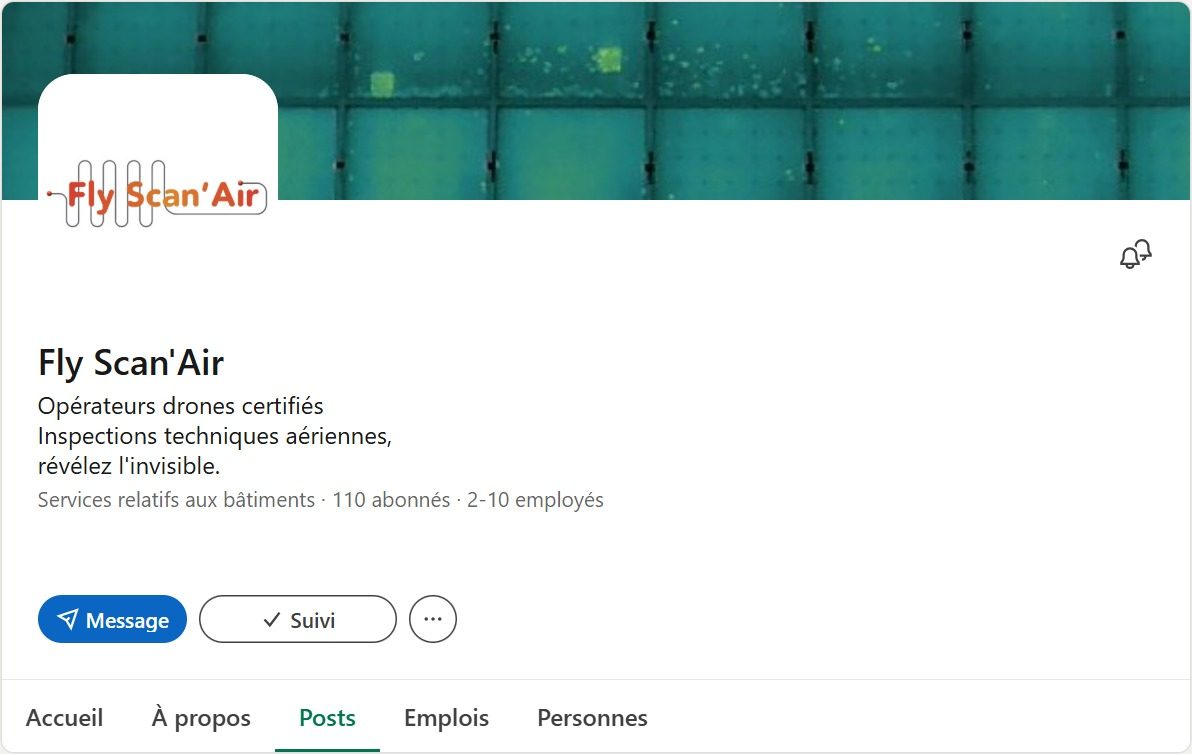
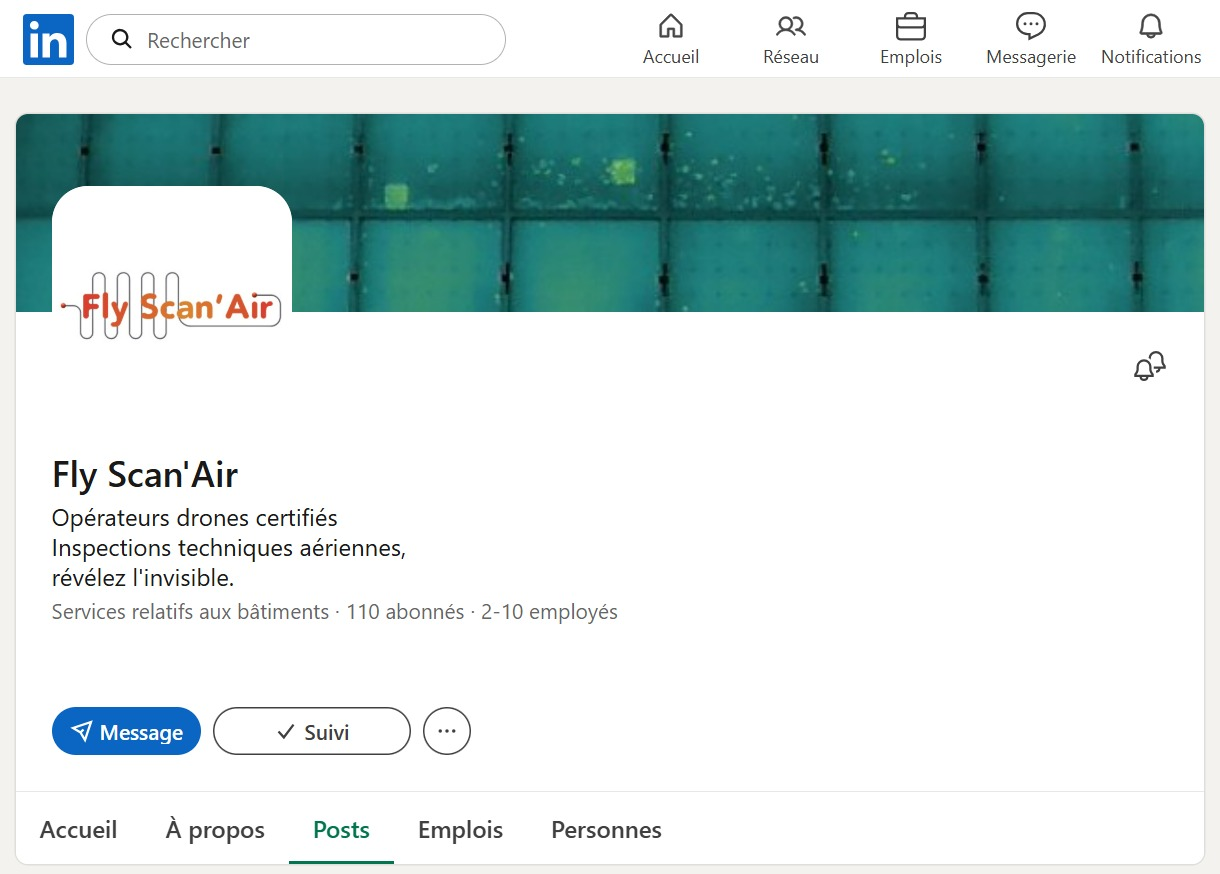
v16 : musique en fond (voix plus claire), site sans zoom, page LinkedIn avec la barre LinkedIn
- Musique : 0,5 (-6 dB) au lieu de 0,85, et 0,15 (-16,5 dB) sous la voix au lieu de 0,28 ; 0,3 pendant la frappe
- S7 : plus de zoom lent sur les captures ; page LinkedIn reprise de la capture complète (barre LinkedIn : logo,
  recherche, menus), pastilles de notification retirées (icônes redessinées), relation personnelle masquée
  (tools/linkedin_image.cjs, la capture d'origine n'est pas versionnée)

Claude-Session: https://claude.ai/code/session_01B7WVztPWfYD6WDTm2LLFp3

diff --git a/video-thermographie/compositions/s7.html b/video-thermographie/compositions/s7.html
@@ -37,7 +37,7 @@
       <svg id="s7-mag" viewBox="0 0 256 256" width="38.64" height="38.64" style="margin: 0 25.76px 0 36.8px"><path d="M232.49,215.51,185,168a92.12,92.12,0,1,0-17,17l47.53,47.54a12,12,0,0,0,17-17ZM44,112a68,68,0,1,1,68,68A68.07,68.07,0,0,1,44,112Z" fill="#111111"/></svg>
       <div id="s7-text" class="stext" style="font-size: 38px"><span id="s7-q0" class="q"><span class="k">w</span><span class="k">w</span><span class="k">w</span><span class="k">.</span><span class="k">f</span><span class="k">l</span><span class="k">y</span><span class="k">s</span><span class="k">c</span><span class="k">a</span><span class="k">n</span><span class="k">a</span><span class="k">i</span><span class="k">r</span><span class="k">.</span><span class="k">c</span><span class="k">o</span><span class="k">m</span></span><span id="s7-q1" class="q"><span class="k">F</span><span class="k">l</span><span class="k">y</span><span class="k">&nbsp;</span><span class="k">S</span><span class="k">c</span><span class="k">a</span><span class="k">n</span><span class="k">&#x27;</span><span class="k">A</span><span class="k">i</span><span class="k">r</span></span><span id="s7-caret" class="caret" style="height: 43.7px"></span></div>
     </div>
-    <div id="s7-r0" class="res" style="left: 247.52px; top: 248px; width: 1424.96px; height: 724px"><div class="chrome" style="height: 44px"><i style="left: 18px; top: 16px"></i><i style="left: 40px; top: 16px"></i><i style="left: 62px; top: 16px"></i><div class="addr" data-layout-ignore style="height: 30px; font-size: 18.48px">flyscanair.com</div></div><div class="shot" style="top: 44px; width: 1424.96px; height: 680px"><img id="s7-img0" src="assets/images/site-flyscanair.jpg" width="1424.96" height="680" alt="" /></div><div id="s7-scan0" class="scan7" style="top: 44px; height: 680px"></div></div><div id="s7-r1" class="res" style="left: 422.49px; top: 248px; width: 1075.01px; height: 724px"><div class="chrome" style="height: 44px"><i style="left: 18px; top: 16px"></i><i style="left: 40px; top: 16px"></i><i style="left: 62px; top: 16px"></i><div class="addr" data-layout-ignore style="height: 30px; font-size: 18.48px">linkedin.com/company/fly-scan-air</div></div><div class="shot" style="top: 44px; width: 1075.01px; height: 680px"><img id="s7-img1" src="assets/images/linkedin-flyscanair.jpg" width="1075.01" height="680" alt="" /></div><div id="s7-scan1" class="scan7" style="top: 44px; height: 680px"></div></div>
+    <div id="s7-r0" class="res" style="left: 247.52px; top: 248px; width: 1424.96px; height: 724px"><div class="chrome" style="height: 44px"><i style="left: 18px; top: 16px"></i><i style="left: 40px; top: 16px"></i><i style="left: 62px; top: 16px"></i><div class="addr" data-layout-ignore style="height: 30px; font-size: 18.48px">flyscanair.com</div></div><div class="shot" style="top: 44px; width: 1424.96px; height: 680px"><img id="s7-img0" src="assets/images/site-flyscanair.jpg" width="1424.96" height="680" alt="" /></div><div id="s7-scan0" class="scan7" style="top: 44px; height: 680px"></div></div><div id="s7-r1" class="res" style="left: 485.4px; top: 248px; width: 949.2px; height: 724px"><div class="chrome" style="height: 44px"><i style="left: 18px; top: 16px"></i><i style="left: 40px; top: 16px"></i><i style="left: 62px; top: 16px"></i><div class="addr" data-layout-ignore style="height: 30px; font-size: 18.48px">linkedin.com/company/fly-scan-air</div></div><div class="shot" style="top: 44px; width: 949.2px; height: 680px"><img id="s7-img1" src="assets/images/linkedin-flyscanair.jpg" width="949.2" height="680" alt="" /></div><div id="s7-scan1" class="scan7" style="top: 44px; height: 680px"></div></div>
   </div>
   <script>
     (function () {
@@ -121,7 +121,6 @@
         tl.fromTo(img, { clipPath: "inset(0 100% 0 0)" }, { clipPath: "inset(0 0% 0 0)", duration: 0.6, ease: "power1.inOut" }, t + 0.2);
         tl.fromTo(scan, { opacity: 1, x: 0 }, { x: w - 4, duration: 0.6, ease: "power1.inOut" }, t + 0.2);
         fadeOut(t + 0.8, scan, 0.12);
-        tl.fromTo(img, { scale: 1 }, { scale: 1.035, duration: 2.2, ease: "sine.inOut", immediateRender: false }, t + 0.8);
       };
       // 2. « www.flyscanair.com », Entrée : la barre monte, le site s'affiche
       type(0, 0.9);

diff --git a/video-thermographie/formats/1x1/compositions/s7.html b/video-thermographie/formats/1x1/compositions/s7.html
@@ -37,7 +37,7 @@
       <svg id="s7-mag" viewBox="0 0 256 256" width="35.28" height="35.28" style="margin: 0 23.52px 0 33.6px"><path d="M232.49,215.51,185,168a92.12,92.12,0,1,0-17,17l47.53,47.54a12,12,0,0,0,17-17ZM44,112a68,68,0,1,1,68,68A68.07,68.07,0,0,1,44,112Z" fill="#111111"/></svg>
       <div id="s7-text" class="stext" style="font-size: 34px"><span id="s7-q0" class="q"><span class="k">w</span><span class="k">w</span><span class="k">w</span><span class="k">.</span><span class="k">f</span><span class="k">l</span><span class="k">y</span><span class="k">s</span><span class="k">c</span><span class="k">a</span><span class="k">n</span><span class="k">a</span><span class="k">i</span><span class="k">r</span><span class="k">.</span><span class="k">c</span><span class="k">o</span><span class="k">m</span></span><span id="s7-q1" class="q"><span class="k">F</span><span class="k">l</span><span class="k">y</span><span class="k">&nbsp;</span><span class="k">S</span><span class="k">c</span><span class="k">a</span><span class="k">n</span><span class="k">&#x27;</span><span class="k">A</span><span class="k">i</span><span class="k">r</span></span><span id="s7-caret" class="caret" style="height: 39.1px"></span></div>
     </div>
-    <div id="s7-r0" class="res" style="left: 40px; top: 277px; width: 1000px; height: 517.21px"><div class="chrome" style="height: 40px"><i style="left: 18px; top: 14px"></i><i style="left: 40px; top: 14px"></i><i style="left: 62px; top: 14px"></i><div class="addr" data-layout-ignore style="height: 26px; font-size: 16.8px">flyscanair.com</div></div><div class="shot" style="top: 40px; width: 1000px; height: 477.21px"><img id="s7-img0" src="assets/images/site-flyscanair.jpg" width="1000" height="477.21" alt="" /></div><div id="s7-scan0" class="scan7" style="top: 40px; height: 477.21px"></div></div><div id="s7-r1" class="res" style="left: 65.73px; top: 277px; width: 948.54px; height: 640px"><div class="chrome" style="height: 40px"><i style="left: 18px; top: 14px"></i><i style="left: 40px; top: 14px"></i><i style="left: 62px; top: 14px"></i><div class="addr" data-layout-ignore style="height: 26px; font-size: 16.8px">linkedin.com/company/fly-scan-air</div></div><div class="shot" style="top: 40px; width: 948.54px; height: 600px"><img id="s7-img1" src="assets/images/linkedin-flyscanair.jpg" width="948.54" height="600" alt="" /></div><div id="s7-scan1" class="scan7" style="top: 40px; height: 600px"></div></div>
+    <div id="s7-r0" class="res" style="left: 40px; top: 277px; width: 1000px; height: 517.21px"><div class="chrome" style="height: 40px"><i style="left: 18px; top: 14px"></i><i style="left: 40px; top: 14px"></i><i style="left: 62px; top: 14px"></i><div class="addr" data-layout-ignore style="height: 26px; font-size: 16.8px">flyscanair.com</div></div><div class="shot" style="top: 40px; width: 1000px; height: 477.21px"><img id="s7-img0" src="assets/images/site-flyscanair.jpg" width="1000" height="477.21" alt="" /></div><div id="s7-scan0" class="scan7" style="top: 40px; height: 477.21px"></div></div><div id="s7-r1" class="res" style="left: 121.24px; top: 277px; width: 837.53px; height: 640px"><div class="chrome" style="height: 40px"><i style="left: 18px; top: 14px"></i><i style="left: 40px; top: 14px"></i><i style="left: 62px; top: 14px"></i><div class="addr" data-layout-ignore style="height: 26px; font-size: 16.8px">linkedin.com/company/fly-scan-air</div></div><div class="shot" style="top: 40px; width: 837.53px; height: 600px"><img id="s7-img1" src="assets/images/linkedin-flyscanair.jpg" width="837.53" height="600" alt="" /></div><div id="s7-scan1" class="scan7" style="top: 40px; height: 600px"></div></div>
   </div>
   <script>
     (function () {
@@ -121,7 +121,6 @@
         tl.fromTo(img, { clipPath: "inset(0 100% 0 0)" }, { clipPath: "inset(0 0% 0 0)", duration: 0.6, ease: "power1.inOut" }, t + 0.2);
         tl.fromTo(scan, { opacity: 1, x: 0 }, { x: w - 4, duration: 0.6, ease: "power1.inOut" }, t + 0.2);
         fadeOut(t + 0.8, scan, 0.12);
-        tl.fromTo(img, { scale: 1 }, { scale: 1.035, duration: 2.2, ease: "sine.inOut", immediateRender: false }, t + 0.8);
       };
       // 2. « www.flyscanair.com », Entrée : la barre monte, le site s'affiche
       type(0, 0.9);

diff --git a/video-thermographie/formats/9x16/compositions/s7.html b/video-thermographie/formats/9x16/compositions/s7.html
@@ -37,7 +37,7 @@
       <svg id="s7-mag" viewBox="0 0 256 256" width="46.2" height="46.2" style="margin: 0 30.8px 0 44px"><path d="M232.49,215.51,185,168a92.12,92.12,0,1,0-17,17l47.53,47.54a12,12,0,0,0,17-17ZM44,112a68,68,0,1,1,68,68A68.07,68.07,0,0,1,44,112Z" fill="#111111"/></svg>
       <div id="s7-text" class="stext" style="font-size: 42px"><span id="s7-q0" class="q"><span class="k">w</span><span class="k">w</span><span class="k">w</span><span class="k">.</span><span class="k">f</span><span class="k">l</span><span class="k">y</span><span class="k">s</span><span class="k">c</span><span class="k">a</span><span class="k">n</span><span class="k">a</span><span class="k">i</span><span class="k">r</span><span class="k">.</span><span class="k">c</span><span class="k">o</span><span class="k">m</span></span><span id="s7-q1" class="q"><span class="k">F</span><span class="k">l</span><span class="k">y</span><span class="k">&nbsp;</span><span class="k">S</span><span class="k">c</span><span class="k">a</span><span class="k">n</span><span class="k">&#x27;</span><span class="k">A</span><span class="k">i</span><span class="k">r</span></span><span id="s7-caret" class="caret" style="height: 48.3px"></span></div>
     </div>
-    <div id="s7-r0" class="res" style="left: 40px; top: 705px; width: 1000px; height: 527.21px"><div class="chrome" style="height: 50px"><i style="left: 18px; top: 19px"></i><i style="left: 40px; top: 19px"></i><i style="left: 62px; top: 19px"></i><div class="addr" data-layout-ignore style="height: 36px; font-size: 21px">flyscanair.com</div></div><div class="shot" style="top: 50px; width: 1000px; height: 477.21px"><img id="s7-img0" src="assets/images/site-flyscanair.jpg" width="1000" height="477.21" alt="" /></div><div id="s7-scan0" class="scan7" style="top: 50px; height: 477.21px"></div></div><div id="s7-r1" class="res" style="left: 40px; top: 705px; width: 1000px; height: 682.55px"><div class="chrome" style="height: 50px"><i style="left: 18px; top: 19px"></i><i style="left: 40px; top: 19px"></i><i style="left: 62px; top: 19px"></i><div class="addr" data-layout-ignore style="height: 36px; font-size: 21px">linkedin.com/company/fly-scan-air</div></div><div class="shot" style="top: 50px; width: 1000px; height: 632.55px"><img id="s7-img1" src="assets/images/linkedin-flyscanair.jpg" width="1000" height="632.55" alt="" /></div><div id="s7-scan1" class="scan7" style="top: 50px; height: 632.55px"></div></div>
+    <div id="s7-r0" class="res" style="left: 40px; top: 705px; width: 1000px; height: 527.21px"><div class="chrome" style="height: 50px"><i style="left: 18px; top: 19px"></i><i style="left: 40px; top: 19px"></i><i style="left: 62px; top: 19px"></i><div class="addr" data-layout-ignore style="height: 36px; font-size: 21px">flyscanair.com</div></div><div class="shot" style="top: 50px; width: 1000px; height: 477.21px"><img id="s7-img0" src="assets/images/site-flyscanair.jpg" width="1000" height="477.21" alt="" /></div><div id="s7-scan0" class="scan7" style="top: 50px; height: 477.21px"></div></div><div id="s7-r1" class="res" style="left: 93.32px; top: 705px; width: 893.36px; height: 690px"><div class="chrome" style="height: 50px"><i style="left: 18px; top: 19px"></i><i style="left: 40px; top: 19px"></i><i style="left: 62px; top: 19px"></i><div class="addr" data-layout-ignore style="height: 36px; font-size: 21px">linkedin.com/company/fly-scan-air</div></div><div class="shot" style="top: 50px; width: 893.36px; height: 640px"><img id="s7-img1" src="assets/images/linkedin-flyscanair.jpg" width="893.36" height="640" alt="" /></div><div id="s7-scan1" class="scan7" style="top: 50px; height: 640px"></div></div>
   </div>
   <script>
     (function () {
@@ -121,7 +121,6 @@
         tl.fromTo(img, { clipPath: "inset(0 100% 0 0)" }, { clipPath: "inset(0 0% 0 0)", duration: 0.6, ease: "power1.inOut" }, t + 0.2);
         tl.fromTo(scan, { opacity: 1, x: 0 }, { x: w - 4, duration: 0.6, ease: "power1.inOut" }, t + 0.2);
         fadeOut(t + 0.8, scan, 0.12);
-        tl.fromTo(img, { scale: 1 }, { scale: 1.035, duration: 2.2, ease: "sine.inOut", immediateRender: false }, t + 0.8);
       };
       // 2. « www.flyscanair.com », Entrée : la barre monte, le site s'affiche
       type(0, 0.9);

diff --git a/video-thermographie/formats/1x1/index.html b/video-thermographie/formats/1x1/index.html
@@ -159,7 +159,7 @@
         data-width="1080"
         data-height="1080"
       ></div>
-      <audio id="music" class="clip" src="assets/audio/music.wav" data-start="0" data-duration="74.4" data-track-index="2" data-volume="1" data-automation="{&quot;version&quot;: 1, &quot;lanes&quot;: [{&quot;target&quot;: &quot;volume&quot;, &quot;points&quot;: [{&quot;t&quot;: 0, &quot;v&quot;: 0.85}, {&quot;t&quot;: 4.2, &quot;v&quot;: 0.85}, {&quot;t&quot;: 4.5, &quot;v&quot;: 0.28}, {&quot;t&quot;: 9.21, &quot;v&quot;: 0.28}, {&quot;t&quot;: 9.66, &quot;v&quot;: 0.85}, {&quot;t&quot;: 10.2, &quot;v&quot;: 0.85}, {&quot;t&quot;: 10.5, &quot;v&quot;: 0.28}, {&quot;t&quot;: 16.16, &quot;v&quot;: 0.28}, {&quot;t&quot;: 16.61, &quot;v&quot;: 0.85}, {&quot;t&quot;: 17.5, &quot;v&quot;: 0.85}, {&quot;t&quot;: 17.8, &quot;v&quot;: 0.28}, {&quot;t&quot;: 30.725, &quot;v&quot;: 0.28}, {&quot;t&quot;: 31.175, &quot;v&quot;: 0.85}, {&quot;t&quot;: 33.3, &quot;v&quot;: 0.85}, {&quot;t&quot;: 33.6, &quot;v&quot;: 0.28}, {&quot;t&quot;: 46.228, &quot;v&quot;: 0.28}, {&quot;t&quot;: 46.678, &quot;v&quot;: 0.85}, {&quot;t&quot;: 56.5, &quot;v&quot;: 0.85}, {&quot;t&quot;: 56.8, &quot;v&quot;: 0.5}, {&quot;t&quot;: 58.4, &quot;v&quot;: 0.5}, {&quot;t&quot;: 58.85, &quot;v&quot;: 0.85}, {&quot;t&quot;: 61.3, &quot;v&quot;: 0.85}, {&quot;t&quot;: 61.6, &quot;v&quot;: 0.5}, {&quot;t&quot;: 63.0, &quot;v&quot;: 0.5}, {&quot;t&quot;: 63.45, &quot;v&quot;: 0.85}]}]}"></audio>
+      <audio id="music" class="clip" src="assets/audio/music.wav" data-start="0" data-duration="74.4" data-track-index="2" data-volume="1" data-automation="{&quot;version&quot;: 1, &quot;lanes&quot;: [{&quot;target&quot;: &quot;volume&quot;, &quot;points&quot;: [{&quot;t&quot;: 0, &quot;v&quot;: 0.5}, {&quot;t&quot;: 4.2, &quot;v&quot;: 0.5}, {&quot;t&quot;: 4.5, &quot;v&quot;: 0.15}, {&quot;t&quot;: 9.21, &quot;v&quot;: 0.15}, {&quot;t&quot;: 9.66, &quot;v&quot;: 0.5}, {&quot;t&quot;: 10.2, &quot;v&quot;: 0.5}, {&quot;t&quot;: 10.5, &quot;v&quot;: 0.15}, {&quot;t&quot;: 16.16, &quot;v&quot;: 0.15}, {&quot;t&quot;: 16.61, &quot;v&quot;: 0.5}, {&quot;t&quot;: 17.5, &quot;v&quot;: 0.5}, {&quot;t&quot;: 17.8, &quot;v&quot;: 0.15}, {&quot;t&quot;: 30.725, &quot;v&quot;: 0.15}, {&quot;t&quot;: 31.175, &quot;v&quot;: 0.5}, {&quot;t&quot;: 33.3, &quot;v&quot;: 0.5}, {&quot;t&quot;: 33.6, &quot;v&quot;: 0.15}, {&quot;t&quot;: 46.228, &quot;v&quot;: 0.15}, {&quot;t&quot;: 46.678, &quot;v&quot;: 0.5}, {&quot;t&quot;: 56.5, &quot;v&quot;: 0.5}, {&quot;t&quot;: 56.8, &quot;v&quot;: 0.3}, {&quot;t&quot;: 58.4, &quot;v&quot;: 0.3}, {&quot;t&quot;: 58.85, &quot;v&quot;: 0.5}, {&quot;t&quot;: 61.3, &quot;v&quot;: 0.5}, {&quot;t&quot;: 61.6, &quot;v&quot;: 0.3}, {&quot;t&quot;: 63.0, &quot;v&quot;: 0.3}, {&quot;t&quot;: 63.45, &quot;v&quot;: 0.5}]}]}"></audio>
       <audio id="vo-01" class="clip" src="assets/audio/vo/vo_01.wav" data-start="4.5" data-duration="4.71" data-track-index="6" data-volume="1"></audio>
       <audio id="vo-02" class="clip" src="assets/audio/vo/vo_02.wav" data-start="10.5" data-duration="5.66" data-track-index="6" data-volume="1"></audio>
       <audio id="vo-03" class="clip" src="assets/audio/vo/vo_03.wav" data-start="17.8" data-duration="6.03" data-track-index="6" data-volume="1"></audio>

diff --git a/video-thermographie/formats/9x16/index.html b/video-thermographie/formats/9x16/index.html
@@ -159,7 +159,7 @@
         data-width="1080"
         data-height="1920"
       ></div>
-      <audio id="music" class="clip" src="assets/audio/music.wav" data-start="0" data-duration="74.4" data-track-index="2" data-volume="1" data-automation="{&quot;version&quot;: 1, &quot;lanes&quot;: [{&quot;target&quot;: &quot;volume&quot;, &quot;points&quot;: [{&quot;t&quot;: 0, &quot;v&quot;: 0.85}, {&quot;t&quot;: 4.2, &quot;v&quot;: 0.85}, {&quot;t&quot;: 4.5, &quot;v&quot;: 0.28}, {&quot;t&quot;: 9.21, &quot;v&quot;: 0.28}, {&quot;t&quot;: 9.66, &quot;v&quot;: 0.85}, {&quot;t&quot;: 10.2, &quot;v&quot;: 0.85}, {&quot;t&quot;: 10.5, &quot;v&quot;: 0.28}, {&quot;t&quot;: 16.16, &quot;v&quot;: 0.28}, {&quot;t&quot;: 16.61, &quot;v&quot;: 0.85}, {&quot;t&quot;: 17.5, &quot;v&quot;: 0.85}, {&quot;t&quot;: 17.8, &quot;v&quot;: 0.28}, {&quot;t&quot;: 30.725, &quot;v&quot;: 0.28}, {&quot;t&quot;: 31.175, &quot;v&quot;: 0.85}, {&quot;t&quot;: 33.3, &quot;v&quot;: 0.85}, {&quot;t&quot;: 33.6, &quot;v&quot;: 0.28}, {&quot;t&quot;: 46.228, &quot;v&quot;: 0.28}, {&quot;t&quot;: 46.678, &quot;v&quot;: 0.85}, {&quot;t&quot;: 56.5, &quot;v&quot;: 0.85}, {&quot;t&quot;: 56.8, &quot;v&quot;: 0.5}, {&quot;t&quot;: 58.4, &quot;v&quot;: 0.5}, {&quot;t&quot;: 58.85, &quot;v&quot;: 0.85}, {&quot;t&quot;: 61.3, &quot;v&quot;: 0.85}, {&quot;t&quot;: 61.6, &quot;v&quot;: 0.5}, {&quot;t&quot;: 63.0, &quot;v&quot;: 0.5}, {&quot;t&quot;: 63.45, &quot;v&quot;: 0.85}]}]}"></audio>
+      <audio id="music" class="clip" src="assets/audio/music.wav" data-start="0" data-duration="74.4" data-track-index="2" data-volume="1" data-automation="{&quot;version&quot;: 1, &quot;lanes&quot;: [{&quot;target&quot;: &quot;volume&quot;, &quot;points&quot;: [{&quot;t&quot;: 0, &quot;v&quot;: 0.5}, {&quot;t&quot;: 4.2, &quot;v&quot;: 0.5}, {&quot;t&quot;: 4.5, &quot;v&quot;: 0.15}, {&quot;t&quot;: 9.21, &quot;v&quot;: 0.15}, {&quot;t&quot;: 9.66, &quot;v&quot;: 0.5}, {&quot;t&quot;: 10.2, &quot;v&quot;: 0.5}, {&quot;t&quot;: 10.5, &quot;v&quot;: 0.15}, {&quot;t&quot;: 16.16, &quot;v&quot;: 0.15}, {&quot;t&quot;: 16.61, &quot;v&quot;: 0.5}, {&quot;t&quot;: 17.5, &quot;v&quot;: 0.5}, {&quot;t&quot;: 17.8, &quot;v&quot;: 0.15}, {&quot;t&quot;: 30.725, &quot;v&quot;: 0.15}, {&quot;t&quot;: 31.175, &quot;v&quot;: 0.5}, {&quot;t&quot;: 33.3, &quot;v&quot;: 0.5}, {&quot;t&quot;: 33.6, &quot;v&quot;: 0.15}, {&quot;t&quot;: 46.228, &quot;v&quot;: 0.15}, {&quot;t&quot;: 46.678, &quot;v&quot;: 0.5}, {&quot;t&quot;: 56.5, &quot;v&quot;: 0.5}, {&quot;t&quot;: 56.8, &quot;v&quot;: 0.3}, {&quot;t&quot;: 58.4, &quot;v&quot;: 0.3}, {&quot;t&quot;: 58.85, &quot;v&quot;: 0.5}, {&quot;t&quot;: 61.3, &quot;v&quot;: 0.5}, {&quot;t&quot;: 61.6, &quot;v&quot;: 0.3}, {&quot;t&quot;: 63.0, &quot;v&quot;: 0.3}, {&quot;t&quot;: 63.45, &quot;v&quot;: 0.5}]}]}"></audio>
       <audio id="vo-01" class="clip" src="assets/audio/vo/vo_01.wav" data-start="4.5" data-duration="4.71" data-track-index="6" data-volume="1"></audio>
       <audio id="vo-02" class="clip" src="assets/audio/vo/vo_02.wav" data-start="10.5" data-duration="5.66" data-track-index="6" data-volume="1"></audio>
       <audio id="vo-03" class="clip" src="assets/audio/vo/vo_03.wav" data-start="17.8" data-duration="6.03" data-track-index="6" data-volume="1"></audio>

diff --git a/video-thermographie/index.html b/video-thermographie/index.html
@@ -159,7 +159,7 @@
         data-width="1920"
         data-height="1080"
       ></div>
-      <audio id="music" class="clip" src="assets/audio/music.wav" data-start="0" data-duration="74.4" data-track-index="2" data-volume="1" data-automation="{&quot;version&quot;: 1, &quot;lanes&quot;: [{&quot;target&quot;: &quot;volume&quot;, &quot;points&quot;: [{&quot;t&quot;: 0, &quot;v&quot;: 0.85}, {&quot;t&quot;: 4.2, &quot;v&quot;: 0.85}, {&quot;t&quot;: 4.5, &quot;v&quot;: 0.28}, {&quot;t&quot;: 9.21, &quot;v&quot;: 0.28}, {&quot;t&quot;: 9.66, &quot;v&quot;: 0.85}, {&quot;t&quot;: 10.2, &quot;v&quot;: 0.85}, {&quot;t&quot;: 10.5, &quot;v&quot;: 0.28}, {&quot;t&quot;: 16.16, &quot;v&quot;: 0.28}, {&quot;t&quot;: 16.61, &quot;v&quot;: 0.85}, {&quot;t&quot;: 17.5, &quot;v&quot;: 0.85}, {&quot;t&quot;: 17.8, &quot;v&quot;: 0.28}, {&quot;t&quot;: 30.725, &quot;v&quot;: 0.28}, {&quot;t&quot;: 31.175, &quot;v&quot;: 0.85}, {&quot;t&quot;: 33.3, &quot;v&quot;: 0.85}, {&quot;t&quot;: 33.6, &quot;v&quot;: 0.28}, {&quot;t&quot;: 46.228, &quot;v&quot;: 0.28}, {&quot;t&quot;: 46.678, &quot;v&quot;: 0.85}, {&quot;t&quot;: 56.5, &quot;v&quot;: 0.85}, {&quot;t&quot;: 56.8, &quot;v&quot;: 0.5}, {&quot;t&quot;: 58.4, &quot;v&quot;: 0.5}, {&quot;t&quot;: 58.85, &quot;v&quot;: 0.85}, {&quot;t&quot;: 61.3, &quot;v&quot;: 0.85}, {&quot;t&quot;: 61.6, &quot;v&quot;: 0.5}, {&quot;t&quot;: 63.0, &quot;v&quot;: 0.5}, {&quot;t&quot;: 63.45, &quot;v&quot;: 0.85}]}]}"></audio>
+      <audio id="music" class="clip" src="assets/audio/music.wav" data-start="0" data-duration="74.4" data-track-index="2" data-volume="1" data-automation="{&quot;version&quot;: 1, &quot;lanes&quot;: [{&quot;target&quot;: &quot;volume&quot;, &quot;points&quot;: [{&quot;t&quot;: 0, &quot;v&quot;: 0.5}, {&quot;t&quot;: 4.2, &quot;v&quot;: 0.5}, {&quot;t&quot;: 4.5, &quot;v&quot;: 0.15}, {&quot;t&quot;: 9.21, &quot;v&quot;: 0.15}, {&quot;t&quot;: 9.66, &quot;v&quot;: 0.5}, {&quot;t&quot;: 10.2, &quot;v&quot;: 0.5}, {&quot;t&quot;: 10.5, &quot;v&quot;: 0.15}, {&quot;t&quot;: 16.16, &quot;v&quot;: 0.15}, {&quot;t&quot;: 16.61, &quot;v&quot;: 0.5}, {&quot;t&quot;: 17.5, &quot;v&quot;: 0.5}, {&quot;t&quot;: 17.8, &quot;v&quot;: 0.15}, {&quot;t&quot;: 30.725, &quot;v&quot;: 0.15}, {&quot;t&quot;: 31.175, &quot;v&quot;: 0.5}, {&quot;t&quot;: 33.3, &quot;v&quot;: 0.5}, {&quot;t&quot;: 33.6, &quot;v&quot;: 0.15}, {&quot;t&quot;: 46.228, &quot;v&quot;: 0.15}, {&quot;t&quot;: 46.678, &quot;v&quot;: 0.5}, {&quot;t&quot;: 56.5, &quot;v&quot;: 0.5}, {&quot;t&quot;: 56.8, &quot;v&quot;: 0.3}, {&quot;t&quot;: 58.4, &quot;v&quot;: 0.3}, {&quot;t&quot;: 58.85, &quot;v&quot;: 0.5}, {&quot;t&quot;: 61.3, &quot;v&quot;: 0.5}, {&quot;t&quot;: 61.6, &quot;v&quot;: 0.3}, {&quot;t&quot;: 63.0, &quot;v&quot;: 0.3}, {&quot;t&quot;: 63.45, &quot;v&quot;: 0.5}]}]}"></audio>
       <audio id="vo-01" class="clip" src="assets/audio/vo/vo_01.wav" data-start="4.5" data-duration="4.71" data-track-index="6" data-volume="1"></audio>
       <audio id="vo-02" class="clip" src="assets/audio/vo/vo_02.wav" data-start="10.5" data-duration="5.66" data-track-index="6" data-volume="1"></audio>
       <audio id="vo-03" class="clip" src="assets/audio/vo/vo_03.wav" data-start="17.8" data-duration="6.03" data-track-index="6" data-volume="1"></audio>

diff --git a/video-thermographie/tools/build.py b/video-thermographie/tools/build.py
@@ -1829,7 +1829,7 @@ def build_s6():
 # S7 — « Retrouvez-nous sur… » : barre de recherche (générique), site web puis page LinkedIn
 # --------------------------------------------------------------------------
 SITE_IMG = (1360, 649)  # capture du site (assets/images/site-flyscanair.jpg)
-LI_IMG = (1192, 754)  # page LinkedIn (assets/images/linkedin-flyscanair.jpg : recadrée, sans données personnelles)
+LI_IMG = (1220, 874)  # page LinkedIn (assets/images/linkedin-flyscanair.jpg, tools/linkedin_image.cjs : barre LinkedIn comprise, sans pastilles ni données personnelles)
 TYPE_DT = 0.09  # une touche toutes les 90 ms (tools/sfx.py génère le bruit de clavier sur la même cadence)
 S7_Q = [  # texte tapé, début de la frappe (s, scène), adresse affichée par le navigateur, image, taille
     ("www.flyscanair.com", 0.9, "flyscanair.com", "assets/images/site-flyscanair.jpg", SITE_IMG),
@@ -1897,7 +1897,6 @@ def build_s7():
         tl.fromTo(img, {{ clipPath: "inset(0 100% 0 0)" }}, {{ clipPath: "inset(0 0% 0 0)", duration: 0.6, ease: "power1.inOut" }}, t + 0.2);
         tl.fromTo(scan, {{ opacity: 1, x: 0 }}, {{ x: w - 4, duration: 0.6, ease: "power1.inOut" }}, t + 0.2);
         fadeOut(t + 0.8, scan, 0.12);
-        tl.fromTo(img, {{ scale: 1 }}, {{ scale: 1.035, duration: 2.2, ease: "sine.inOut", immediateRender: false }}, t + 0.8);
       }};
       // 2. « www.flyscanair.com », Entrée : la barre monte, le site s'affiche
       type(0, {S7_Q[0][1]});
@@ -2035,8 +2034,8 @@ SFX = [
     ("sfx-logo", "impact-bass-1.mp3", T_["s8"] + 2.45, 0.22),
     ("sfx-lift", "whoosh-low.mp3", T_["s8"] + 3.75, 0.18),
 ]
-# musique un peu plus basse pendant la frappe au clavier (scène 7)
-DUCK_EXTRA = [(T_["s7"] + 0.7, T_["s7"] + 3.05, 0.5), (T_["s7"] + 5.5, T_["s7"] + 7.65, 0.5)]
+# musique encore plus basse pendant la frappe au clavier (scène 7)
+DUCK_EXTRA = [(T_["s7"] + 0.7, T_["s7"] + 3.05, 0.3), (T_["s7"] + 5.5, T_["s7"] + 7.65, 0.3)]
 
 
 def build_index(sfx_offsets):
@@ -2058,7 +2057,7 @@ def build_index(sfx_offsets):
     # voix off (tools/voiceover.py) : une piste par phrase, et la musique s'efface sous la voix
     vo_path = os.path.join(ROOT, "assets", "audio", "vo", "vo.json")
     vo = json.load(open(vo_path, encoding="utf-8")) if os.path.exists(vo_path) else []
-    duck, base = 0.28, 0.85  # musique -1,4 dB partout, -11 dB sous la voix
+    duck, base = 0.15, 0.5  # musique de fond : -6 dB partout, -16,5 dB sous la voix (la voix reste claire)
     segs = []
     for v in vo:
         s0, s1 = v["start"] - 0.3, v["start"] + v["dur"] + 0.45
